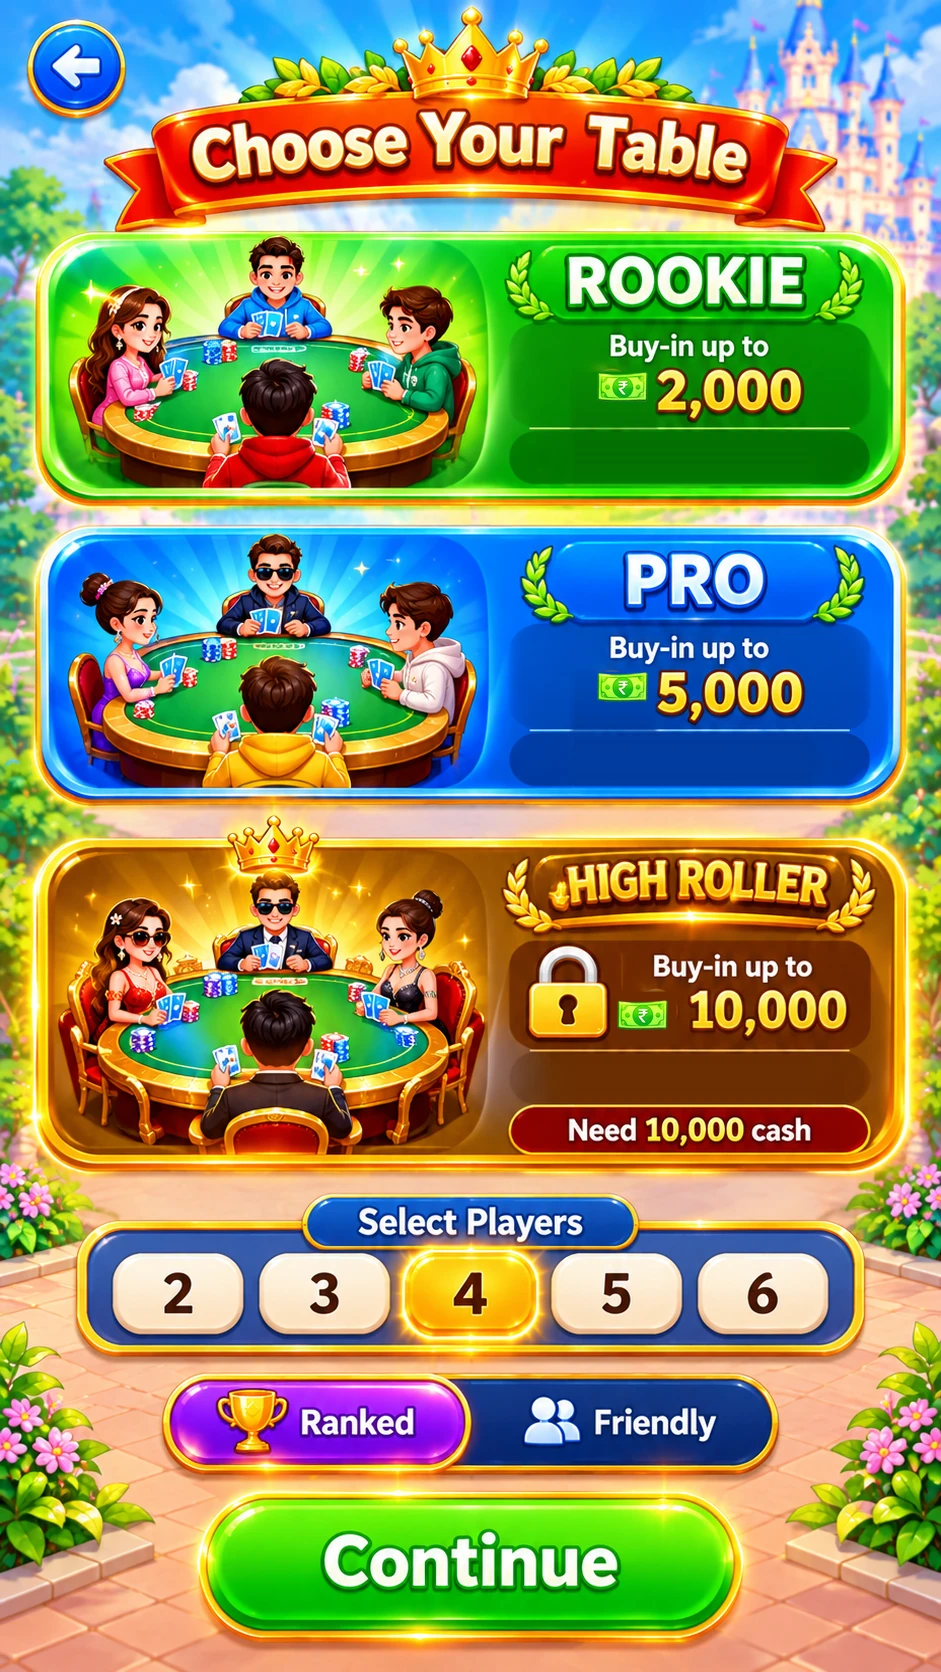
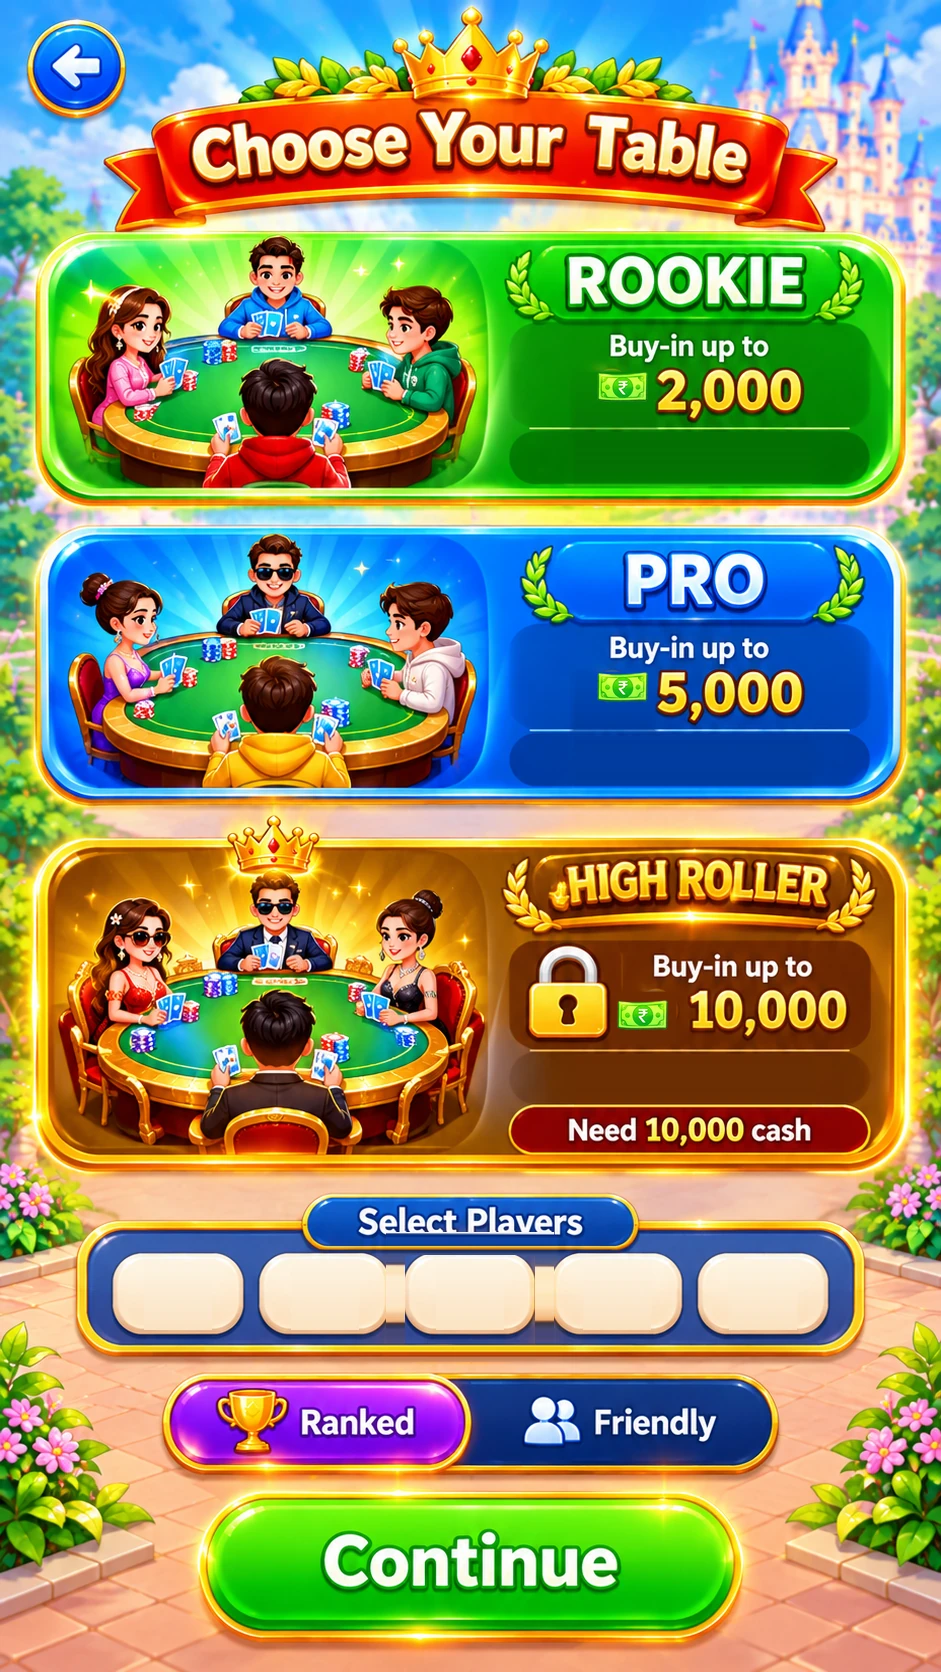
Player row rebuilt with live highlight, pro count + pill, sky

diff --git a/index.html b/index.html
@@ -100,7 +100,7 @@ input[type=range]::-moz-range-thumb{width:26px;height:26px;border:3px solid #fff
 #gameScreen{padding:0 8px;gap:4px;
   background:
     linear-gradient(180deg,rgba(255,255,255,.42) 0%,rgba(214,244,255,.30) 40%,rgba(200,240,200,.42) 100%),
-    url('assets/tablebg.webp?v=15') center/cover no-repeat fixed}
+    url('assets/tablebg.webp?v=16') center/cover no-repeat fixed}
 
 .topbar{display:flex;align-items:center;gap:8px;padding:8px 0 2px}
 .topbar .icon{
@@ -252,7 +252,7 @@ input[type=range]::-moz-range-thumb{width:26px;height:26px;border:3px solid #fff
 .hand .card.sel{
   border-color:#63e06b;box-shadow:0 0 0 3px #63e06b,0 12px 22px rgba(0,0,0,.35);z-index:20!important;
 }
-.hand .card.ghost{background:url('assets/cardback.webp?v=15') center/cover;border-color:#fff}
+.hand .card.ghost{background:url('assets/cardback.webp?v=16') center/cover;border-color:#fff}
 
 /* ---------- action panel ---------- */
 .actionpanel{
@@ -394,7 +394,7 @@ input[type=range]::-moz-range-thumb{width:26px;height:26px;border:3px solid #fff
 .rcard.red .face.front{color:#d02a1e}
 .rcard .face.front .r{font-size:24px;line-height:1;font-family:Georgia,serif}
 .rcard .face.front .s{font-size:16px;line-height:1}
-.rcard .face.back{transform:rotateY(180deg);background:url('assets/cardback.webp?v=15') center/cover;border:2px solid #fff}
+.rcard .face.back{transform:rotateY(180deg);background:url('assets/cardback.webp?v=16') center/cover;border:2px solid #fff}
 .rcell.win .rcard .face.front{box-shadow:0 0 0 3px #63e06b,0 0 26px rgba(99,224,107,.9)}
 .rcell.win{animation:winglow 1.4s ease-in-out infinite alternate}
 @keyframes winglow{from{transform:scale(1)}to{transform:scale(1.05)}}
@@ -479,7 +479,7 @@ input[type=range]::-moz-range-thumb{width:26px;height:26px;border:3px solid #fff
 
 /* ================= SPLASH ================= */
 @font-face{font-family:'Baloo 2';font-style:normal;font-weight:400 800;font-display:swap;
-  src:url('assets/baloo.woff2?v=15') format('woff2')}
+  src:url('assets/baloo.woff2?v=16') format('woff2')}
 #splashScreen{font-family:'Baloo 2',system-ui,sans-serif}
 
 .splash{position:relative;height:100dvh;min-height:100dvh;width:100%;overflow:hidden;
@@ -554,10 +554,10 @@ input[type=range]::-moz-range-thumb{width:26px;height:26px;border:3px solid #fff
   font-family:'Baloo 2',system-ui,sans-serif}
 .hs-bg{position:absolute;inset:0;width:941px;height:1672px;display:block}
 .hs-skyext{position:absolute;left:0;right:0;bottom:1670px;height:900px;z-index:0;
-  background:url('assets/home/sky-top.webp?v=15') center bottom/100% 100% no-repeat}
+  background:url('assets/home/sky-top.webp?v=16') center bottom/100% 100% no-repeat}
 
 .hs-crop{position:absolute;background-repeat:no-repeat;background-size:941px 1672px;
-  background-image:url('assets/home/home-base.webp?v=15');will-change:transform;z-index:2}
+  background-image:url('assets/home/home-base.webp?v=16');will-change:transform;z-index:2}
 .hs-char{left:345px;top:150px;width:267px;height:585px;background-position:-345px -150px;
   animation:hsBob 3s ease-in-out infinite}
 @keyframes hsBob{0%,100%{transform:translateY(0)}50%{transform:translateY(-3px)}}
@@ -654,14 +654,14 @@ input[type=range]::-moz-range-thumb{width:26px;height:26px;border:3px solid #fff
 .ts-count img{width:47px;height:36px;display:block}
 .ts-count span{font-size:31px;line-height:1;white-space:nowrap;text-shadow:0 2px 3px rgba(0,0,0,.45)}
 #cnt0{top:440px}
-#cnt1{top:742px}
+#cnt1{top:720px}
 #cnt2{top:1062px}
 
 .ts-outline{position:absolute;z-index:3;border-radius:46px;pointer-events:none;opacity:0;
   box-shadow:0 0 0 8px #ffd23f,0 0 34px 10px rgba(255,210,63,.75);
   transition:opacity .15s,left .18s,top .18s,height .18s}
 .ts-outline.on{opacity:1;animation:tsPulse 1.4s ease-in-out infinite}
-.ts-skyext{background-image:url('assets/ts/sky-top.webp?v=15')}
+.ts-skyext{background-image:url('assets/ts/sky-top.webp?v=16')}
 @keyframes tsPulse{0%,100%{box-shadow:0 0 0 8px #ffd23f,0 0 26px 6px rgba(255,210,63,.55)}
 50%{box-shadow:0 0 0 10px #ffe98a,0 0 44px 14px rgba(255,210,63,.95)}}
 
@@ -673,20 +673,24 @@ input[type=range]::-moz-range-thumb{width:26px;height:26px;border:3px solid #fff
 .ts-prolock.on{display:flex}
 .ts-prolock::before{content:"";position:absolute;inset:0;background:rgba(8,16,40,.35);border-radius:46px}
 .ts-prolock img{position:absolute;left:505px;top:92px;width:66px;height:72px;filter:drop-shadow(0 3px 5px rgba(0,0,0,.4))}
-.ts-prolock span{position:absolute;left:470px;top:254px;width:360px;height:42px;border-radius:25px;
+.ts-prolock span{position:absolute;left:470px;top:223px;width:360px;height:40px;border-radius:25px;
   display:flex;align-items:center;justify-content:center;
   background:linear-gradient(180deg,#a8271a,#8b0201);border:2px solid #d9695a;color:#fff;
   font-family:'Baloo 2',system-ui,sans-serif;font-size:25px;font-weight:800;white-space:nowrap;
   text-shadow:0 2px 0 rgba(0,0,0,.45);box-shadow:0 3px 8px rgba(0,0,0,.35)}
 
-.pn{position:absolute;top:1250px;height:90px;background:none;border:0;padding:0;z-index:4;
+.pn{position:absolute;top:1250px;height:90px;background:none;border:0;padding:0;
   transition:transform .1s}
 .pn:active{transform:scale(.95)}
-.pn .pn-bg{width:100%;height:100%;display:block}
-.pn span{position:absolute;inset:0;display:flex;align-items:center;justify-content:center;
+.pn .pn-bg{width:100%;height:100%;display:block;filter:saturate(.9)}
+.pn span{position:absolute;inset:0;z-index:6;display:flex;align-items:center;justify-content:center;
   font-family:'Baloo 2',system-ui,sans-serif;font-size:46px;font-weight:800;color:#5b2a06;
   text-shadow:0 2px 0 rgba(255,255,255,.55);pointer-events:none}
-.pn.on span{color:#5A3410;text-shadow:0 2px 0 rgba(255,255,255,.35)}
+.pn span{color:#5A3410}
+.pn-hl{position:absolute;z-index:5;top:1250px;height:90px;border-radius:22px;pointer-events:none;
+  background:linear-gradient(180deg,#ffe98a 0%,#ffc93c 45%,#e8a51e 100%);
+  box-shadow:0 0 0 3px #fff2b8,0 0 22px 6px rgba(255,200,60,.85),inset 0 3px 0 rgba(255,255,255,.7);
+  transition:left .18s cubic-bezier(.2,.8,.3,1),width .18s}
 
 .ts-tap{position:absolute;background:transparent;border:0;padding:0;z-index:6;transition:transform .1s}
 .ts-tap:active{transform:scale(.97)}
@@ -744,9 +748,9 @@ input[type=range]::-moz-range-thumb{width:26px;height:26px;border:3px solid #fff
 
   <!-- ============ SPLASH / LOGIN ============ -->
   <section id="splashScreen" class="screen splash">
-    <img class="splash-bg" src="assets/bg-garden.webp?v=15" alt="">
+    <img class="splash-bg" src="assets/bg-garden.webp?v=16" alt="">
     <div class="floaties" id="floaties" aria-hidden="true"></div>
-    <img class="splash-logo" src="assets/logo.webp?v=15" alt="Game of Wealth">
+    <img class="splash-logo" src="assets/logo.webp?v=16" alt="Game of Wealth">
 
     <div class="splash-bottom">
       <div class="splash-actions" id="splashActions">
@@ -782,7 +786,7 @@ input[type=range]::-moz-range-thumb{width:26px;height:26px;border:3px solid #fff
     <div class="hs-wrap" id="hsWrap">
       <div class="hs-stage" id="hsStage">
         <div class="hs-skyext"></div>
-        <img class="hs-bg" src="assets/home/home-base.webp?v=15" alt="">
+        <img class="hs-bg" src="assets/home/home-base.webp?v=16" alt="">
         <div class="hs-crop hs-char" id="hsChar"></div>
         <div class="hs-crop hs-play" id="hsPlay"></div>
         <div class="hs-shimmer"></div>
@@ -818,25 +822,27 @@ input[type=range]::-moz-range-thumb{width:26px;height:26px;border:3px solid #fff
     <div class="hs-wrap">
       <div class="hs-stage" id="tsStage">
         <div class="hs-skyext ts-skyext"></div>
-        <img class="hs-bg" id="tsBg" src="assets/ts/ts-locked.webp?v=15" alt="">
+        <img class="hs-bg" id="tsBg" src="assets/ts/ts-locked.webp?v=16" alt="">
 
         <div class="ts-outline" id="tsOutline"></div>
 
-        <div class="ts-count" id="cnt0"><img src="assets/ts/people.webp?v=15" alt=""><span>128 playing</span></div>
-        <div class="ts-count" id="cnt1"><img src="assets/ts/people.webp?v=15" alt=""><span>64 playing</span></div>
-        <div class="ts-count" id="cnt2"><img src="assets/ts/people.webp?v=15" alt=""><span>12 playing</span></div>
+        <div class="ts-count" id="cnt0"><img src="assets/ts/people.webp?v=16" alt=""><span>128 playing</span></div>
+        <div class="ts-count" id="cnt1"><img src="assets/ts/people.webp?v=16" alt=""><span>64 playing</span></div>
+        <div class="ts-count" id="cnt2"><img src="assets/ts/people.webp?v=16" alt=""><span>12 playing</span></div>
 
         <div class="ts-dim" id="tsRankedDim"></div>
         <div class="ts-prolock" id="tsProLock">
-          <img src="assets/ic-lock.webp?v=15" alt="">
+          <img src="assets/ic-lock.webp?v=16" alt="">
           <span>Need 5,000 cash</span>
         </div>
 
-        <button class="pn" data-n="2" style="left:113px;width:130px"><img class="pn-bg" src="assets/ts/pbtn-cream.webp?v=15" alt=""><span>2</span></button>
-        <button class="pn" data-n="3" style="left:260px;width:130px"><img class="pn-bg" src="assets/ts/pbtn-cream.webp?v=15" alt=""><span>3</span></button>
-        <button class="pn" data-n="4" style="left:405px;width:130px"><img class="pn-bg" src="assets/ts/pbtn-cream.webp?v=15" alt=""><span>4</span></button>
-        <button class="pn" data-n="5" style="left:552px;width:130px"><img class="pn-bg" src="assets/ts/pbtn-cream.webp?v=15" alt=""><span>5</span></button>
-        <button class="pn" data-n="6" style="left:698px;width:130px"><img class="pn-bg" src="assets/ts/pbtn-cream.webp?v=15" alt=""><span>6</span></button>
+
+        <div class="pn-hl" id="pnHl"></div>
+        <button class="pn" data-n="2" style="left:113px;width:130px"><img class="pn-bg" src="assets/ts/pbtn-cream.webp?v=16" alt=""><span>2</span></button>
+        <button class="pn" data-n="3" style="left:260px;width:130px"><img class="pn-bg" src="assets/ts/pbtn-cream.webp?v=16" alt=""><span>3</span></button>
+        <button class="pn" data-n="4" style="left:405px;width:130px"><img class="pn-bg" src="assets/ts/pbtn-cream.webp?v=16" alt=""><span>4</span></button>
+        <button class="pn" data-n="5" style="left:552px;width:130px"><img class="pn-bg" src="assets/ts/pbtn-cream.webp?v=16" alt=""><span>5</span></button>
+        <button class="pn" data-n="6" style="left:698px;width:130px"><img class="pn-bg" src="assets/ts/pbtn-cream.webp?v=16" alt=""><span>6</span></button>
 
         <button class="ts-tap t2-back" id="ts-back" aria-label="Back"></button>
         <button class="ts-tap t2-rookie" id="ts-rookie" aria-label="Rookie"></button>
@@ -851,7 +857,7 @@ input[type=range]::-moz-range-thumb{width:26px;height:26px;border:3px solid #fff
     <!-- buy-in sheet -->
     <div class="bi-overlay" id="biOverlay" hidden>
       <div class="bi-sheet" id="biSheet">
-        <img class="bi-img" src="assets/ts/buyin.webp?v=15" alt="">
+        <img class="bi-img" src="assets/ts/buyin.webp?v=16" alt="">
         <span class="bi-amount" id="biAmount">2,000</span>
         <div class="bi-track" id="biTrack"><i id="biFill"></i><b id="biKnob"></b></div>
         <div class="bi-wallet" id="biWallet">Wallet: 2,000 &rarr; 0 after</div>
@@ -3064,7 +3070,7 @@ const Bots = (function () {
     const wrap = $('floaties');
     if (!wrap) return;
     wrap.innerHTML = '';
-    const kinds = ['assets/ic-cash1.webp?v=15', 'assets/ic-gold1.webp?v=15'];
+    const kinds = ['assets/ic-cash1.webp?v=16', 'assets/ic-gold1.webp?v=16'];
     for (let i = 0; i < 8; i++) {
       const img = document.createElement('img');
       img.className = 'flimg';
@@ -3144,7 +3150,7 @@ const Bots = (function () {
 
   function renderTableSelect() {
     const wallet = PROFILE.cash;
-    $('tsBg').src = wallet >= 10000 ? 'assets/ts/ts-unlocked.webp?v=15' : 'assets/ts/ts-locked.webp?v=15';
+    $('tsBg').src = wallet >= 10000 ? 'assets/ts/ts-unlocked.webp?v=16' : 'assets/ts/ts-locked.webp?v=16';
     setCounts();
 
     const t = TIERS[TS.tier];
@@ -3153,16 +3159,15 @@ const Bots = (function () {
     ol.style.width = '881px'; ol.style.height = (t.h + 16) + 'px';
     ol.classList.add('on');
 
+    const hl = $('pnHl');
+    const sel = document.querySelector('.pn[data-n="' + TS.players + '"]');
+    if (hl && sel) { hl.style.left = sel.style.left; hl.style.width = sel.style.width; }
     document.querySelectorAll('.pn').forEach(function (b) {
-      const on = (+b.dataset.n === TS.players);
-      b.classList.toggle('on', on);
-      b.querySelector('.pn-bg').src = on ? 'assets/ts/pbtn-gold.webp?v=15' : 'assets/ts/pbtn-cream.webp?v=15';
+      b.classList.toggle('on', +b.dataset.n === TS.players);
     });
 
     $('tsRankedDim').style.opacity = TS.mode === 'friendly' ? '1' : '0';
-    const proLocked = wallet < 5000;
-    $('tsProLock').classList.toggle('on', proLocked);
-    $('cnt1').style.display = proLocked ? 'none' : '';
+    $('tsProLock').classList.toggle('on', wallet < 5000);
     fitHome();
   }
 
@@ -3321,7 +3326,7 @@ const Bots = (function () {
 </script>
 <script>
 if ('serviceWorker' in navigator) {
-  window.addEventListener('load', function () { navigator.serviceWorker.register('./sw.js?v=15').catch(function(){}); });
+  window.addEventListener('load', function () { navigator.serviceWorker.register('./sw.js?v=16').catch(function(){}); });
 }
 </script>
 </body>

diff --git a/sw.js b/sw.js
@@ -1,7 +1,7 @@
 /* Game of Wealth - offline shell.
    Network-first for everything so a deploy is visible on the next load;
    the cache is only used when the network fails. */
-const CACHE = 'gow-v15';
+const CACHE = 'gow-v16';
 const ASSETS = ['./', './index.html', './manifest.json', './icon.svg'];
 
 self.addEventListener('install', (e) => {
